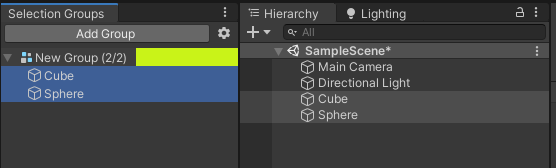
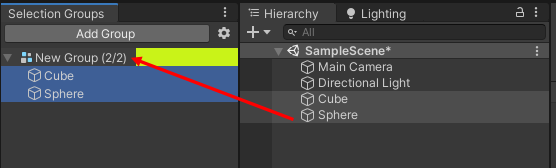
doc: technical editing of English docs (#31)
* copy the overview part of the contents of index.md to readme
* add a link to Getting Started in readme
* technical edits for index.md
* technical edits for GoQL.md
* Annotate SelectionGroupTools.png
* Annotate SelectionGroupMembers.png

Changed region(s): [[0.214, 0.3274, 0.4586, 0.625], [0.4586, 0.625, 0.5504, 0.7143]]

diff --git a/Documentation~/goql.md b/Documentation~/goql.md
@@ -1,101 +1,120 @@
+# GoQL User Documentation
 
-GoQL User Documentation
-=============================
 
-# Introduction 
-GoQL is an abbreviation for "GameObject Query Language". It is used to construct sets of GameObjects from the scene hierarchy. The API takes a single query string as a parameter, and returns a set of GameObjects that match that query.
+## Introduction 
 
-# Creating Queries
-It is possible to construct and test queries by using the Window -> General -> GoQL window. This allows you to type a query, and immediately see the objects that are selected by the query.
+GoQL is an abbreviation for "GameObject Query Language". 
+It is used to construct sets of **GameObjects** from the scene hierarchy.   
+The API takes a single query string as a parameter, 
+and returns a set of **GameObjects** that match that query.
 
-# Structure
-A GoQL query is built using name filters, indexers, discriminators and descenders. This sounds complicated, but uses a syntax which is similar to directory paths and filenames.
+## Structure
 
-## Name Filters
-The name of a GameObject can be specified directly. Eg:
+A GoQL query is built using [name filters](#name-filters), [indexers](#indexers), 
+[discriminators](#discriminators) and [descenders](#descenders). 
+This sounds complicated, but it uses a syntax which is similar to directory paths and filenames.
+
+### Name Filters
+
+The name of a **GameObject** can be specified directly. E.g.:
     
     Head
 
-will match all GameObects that are named "Head". A name filter can also use wildcards at the beginning and end of the namem, Eg:
+will match all **GameObjects** that are named "Head".   
+A name filter can also use wildcards at the beginning and end of the name, E.g.:
 
     *Head
 
-will match all GameObjects that have a name ending with "Head" and
+will match all **GameObjects** that have a name ending with "Head" and
 
     Head*
 
-will match all GammeObjects that have a name beginning with "Head", while
+will match all **GameObjects** that have a name beginning with "Head", while
 
     *Head*
 
-will match all GameObjects that contain the string "Head" anywhere in their name.
+will match all **GameObjects** that contain the string "Head" anywhere in their name.
 
-It is important to note that a Name Filter will match all GameObjects in the current set. Initially, the current set is global, and will contain all objects in the hierarchy. The current set can be changed using a descender.
+It is important to note that a Name Filter will match all GameObjects in the current set.  
+Initially, the current set is global, and will contain all objects in the hierarchy.   
+The current set can be changed using a descender.
 
-## Descenders
+### Descenders
+
 A descender is a slash character.
 
     /
 
-When GoQL reads this symbol, it will narrow the search down into the children of the current set. If it is the first character of the GoQL string, it will match all root objects in the scene. 
+When GoQL reads this symbol, it will narrow the search down into the children of the current set.   
+If it is the first character of the GoQL string, it will match all root objects in the scene. 
 
 A double asterisk is a special descender, which collects all _ancestors_ of the current set.
 
     **
 
-This will collect every child of the current set, and the childs children, recursively until the end of hierarchy is reached.
+This will collect every child of the current set, and the child's children, recursively until the end of hierarchy is reached.
 
 When this symbol is read    
 
     /Head
 
-will match any GameObjects named "Head" that are in the root of the hierarchy. While:
+will match any **GameObjects** named "Head" that are in the root of the hierarchy, while
 
     Head/
 
-would match all immediate children of any GameObjects named "Head".
+would match all immediate children of any **GameObjects** named "Head".
 
-## Indexer
-An indexer will filter the current set using a numerical index which can specifiy individual indexes or a range of indexes. Eg:
+### Indexer
+
+An indexer will filter the current set using a numerical index which can specifiy individual indexes or a range of indexes. E.g.:
 
     Head/[0]
 
-Will match the first child of all GameObjects named "Head".
+will match the first child of all **GameObjects** named "Head".
 
     Head/[0,1,5]
 
-will match a number of children of all GameObjects named "Head", if they exist. Indexes can also be negative, Eg:
+will match a number of children of all **GameObjects** named "Head", if they exist.   
+Indexes can also be negative, Eg:
 
     Head/[-1]
 
-will match the last child of all GameObjects named "Head". An indexer can also be a range, rather than single values. Eg:
+will match the last child of all **GameObjects named** "Head".  
+An indexer can also be a range, rather than single values. E.g.:
 
     Head/[3:5]
 
-will match all children of objects named "Head" that have an index of 3 or 4. (The range in exclusive of the final range value).
+will match all children of objects named "Head" that have an index of 3 or 4.   
+The range is exclusive of the final range value.
 
-#Discriminators
-A discriminator is used to filter the current set by checking for the existing of components, a material or a shader. Discriminators are specified using angle brackets and an initial discrimination code, which can be 't' for components, 'm' for materials and 's' for shaders. Eg:
+# Discriminators
+
+A discriminator is used to filter the current set by checking for the existing of components, 
+a material or a shader.   
+Discriminators are specified using angle brackets and an initial discrimination code, 
+which can be 't' for components, 'm' for materials and 's' for shaders. E.g.:
 
     Head<t:Collider>
 
-will match all objects named "Head" which also have a Collider component. Using a different discriminator code, we can instead match objects that are using a specific material. Eg:
+will match all **GameObjects** named "Head" which also have a Collider component.   
+Using a different discriminator code, we can instead match objects that are using a specific material. 
+E.g.:
 
     Head<m:Glow>
 
-will match all objects that are named "Head" and have a material named "Glow", while:
+will match all **GameObjects** that are named "Head" and have a material named "Glow", while:
 
     Head<s:Standard> 
     
-will match all objects that are named "Head" and are using a shader named "Standard".
+will match all **GameObjects** that are named "Head" and are using a shader named "Standard".
 
-# Examples
+## Examples
 
 Select all root objects:
 
     /
 
-Select all objects who have a name beginning with "Quad":
+Select all **GameObjects** who have a name beginning with "Quad":
 
     Quad*
 
@@ -104,24 +123,25 @@ Select second audio source component in children of all objects who have a name 
     Quad*/<t:AudioSource>[1]
 
 
-Select all gameobjects that have a Transform and a AudioSource component: 
+Select all **GameObjects** that have a Transform and a AudioSource component: 
 
     <t:Transform, t:AudioSource>
 
 
-Select the first 3 children of all objects that are a child of a renderer component and have "Audio" in their name: 
+Select the first 3 children of all **GameObjects** that are a child of a renderer component and have "Audio" in their name: 
 
     <t:Renderer>/*Audio*[0:3]
 
 
-From each object named "Cube", select children that have a name starting with "Quad", then select the last grandchild that has an AudioComponent.
+From each **GameObject** named "Cube", select children that have a name starting with "Quad", 
+then select the last grandchild that has an AudioComponent.
 
     Cube/Quad/<t:AudioSource>[-1]
 
-Select all gamobjects that use the material "Skin":
+Select all **GameObjects** that use the material "Skin":
 
     <m:Skin>
 
-Select all ancestors of the root Environment gameobject that have a MeshRenderer.
+Select all ancestors of the root Environment **GameObject** that have a MeshRenderer.
 
     /Environment/**<t:MeshRenderer>

diff --git a/Documentation~/index.md b/Documentation~/index.md
@@ -1,44 +1,58 @@
-Selection Groups User Documentation
-===================================
-
-# Overview
-
-Selection groups allow a number of Unity Objects to be categorized under a common name.
-The selection group data is initially stored in a scene which allows the data 
-to be used by scripts.
-
-As an alternative, the group data can instead be stored outside of the scene.
-This allows a decoupling between the groups and the scenes, with a tradeoff 
-that the group data cannot be used by scripts.
+# Selection Groups User Documentation
 
 
-# Getting Started
+## Overview
 
-1. Open the selection group window via Window -> General -> Selection Groups.  
-   A new window will open, it makes sense to dock this window next to the Hierarchy window.   
+Selection Groups provides a more convenient workflow in Unity by 
+allowing to group a number of **GameObjects** under a common name.  
+This way, we can do operations on these groups, 
+instead of individual **GameObjects**.
+
+## Getting Started
+
+1. Open the Selection Groups window via Window > General > Selection Groups.  
+   We recommend to dock this window next to the Hierarchy window.   
+
    ![](images/SelectionGroupsWindow.png)
+
 1. Click “Add Group” in the Selection Groups window, and a new item will appear inside the window.   
 1. Drag some **GameObjects** from the hierarchy, or assets from the Project window. 
+   
    ![](images/SelectionGroupMembers.png)
-1. Double click the group name, and a configuration dialog box will appear.   
+
+1. Double click the group name, and a configuration dialog box will appear.
+
    ![](images/SelectionGroupConfiguration.png)
-   1. You may change the group name and color, GoQL query or enable and disable Group Tools.
-   1. The place for storing the data may be configured as well.
-   2. The GoQL: Game Object Query Language field allows you to specify a query 
-      which will automatically select **GameObjects** from the hierarchy that match the query. 
+
+   The dialog box contains the following properties:
+   1. Group name 
+   1. Group color
+   1. [Data Location](#data-location)
+   1. GameObject Query  
+      Specifies a query which will automatically include **GameObjects** from the hierarchy
+      that match the query into the group.  
       For example, `/Enemy*` will select all GameObjects that are in the root of the hierarchy 
-      that have a name starting with `Enemy`. See the [GoQL](goql.md) documentation for more information.
-1. The Group Tools checkboxes enable toolbar items in the main Selection Groups window for each group. 
-   These tools allow you to show and hide an entire group with a single click, 
-   or enable and disable editing of an entire group with a single click.   
-   ![](images/SelectionGroupTools.png)
+      that have names starting with `Enemy`.  
+      See the [GoQL](goql.md) documentation for more information.     
+   1. Enabled Toolbar Buttons  
+      Enables/disables the following toolbar items in the main Selection Groups window for the group.   
+      1. Eye: show or hide all the **GameObjects** in the group. 
+      1. Lock: enable or disable the editing of all the **GameObjects** in the group.  
 
+      ![](images/SelectionGroupTools.png)
 
-# How does storing the data outside a scene work ?
+## Data Location
 
-Unity has an API (GlobalObjectId) for creating a global identifier for objects in scenes. 
-The Selection Group stores references to objects using this API, 
-which is saved in an asset external to the project. 
-This allows the same group to exist across the project, 
-containing game assets and **GameObjects** from multiple scenes. 
-When a scene is loaded, the Selection Group window will only list **GameObjects** that currently exist in that scene.
+The data of each group can be stored in one of these two locations:
+1. Scene: in a scene (default).  
+   This allows scripts to access the data.
+2. Editor: in an asset file outside scenes.  
+   This allows a decoupling between the groups and the scenes, with a tradeoff 
+   that the group data cannot be used by scripts.  
+   The same group can be shared by multiple scenes, 
+   but the Selection Group window will only show grouped **GameObjects** that exist in the opened scene.
+
+> When the group data is stored in the Editor, the group saves references to **GameObjects** using 
+> [GlobalObjectId API](https://docs.unity3d.com/ScriptReference/GlobalObjectId.html),
+> which provides project-global object identifiers, into an asset file.
+

diff --git a/README.md b/README.md
@@ -1,4 +1,4 @@
-# SelectionGroups
+# Selection Groups
 
 [![](https://badge-proxy.cds.internal.unity3d.com/fb136fc0-1940-40a8-9057-83638eb23bcd)](https://badges.cds.internal.unity3d.com/packages/com.unity.selection-groups/build-info?branch=dev&testWorkflow=package-isolation)
 [![](https://badge-proxy.cds.internal.unity3d.com/0ff3d77d-0f47-4e16-857c-ed03a771eac9)](https://badges.cds.internal.unity3d.com/packages/com.unity.selection-groups/dependencies-info?branch=dev&testWorkflow=updated-dependencies)
@@ -8,16 +8,21 @@
 ![ReleaseBadge](https://badge-proxy.cds.internal.unity3d.com/239fe9e2-44d2-4379-81a6-d94bdcc74ffe)
 ![ReleaseBadge](https://badge-proxy.cds.internal.unity3d.com/d907b255-39d5-4c3b-9b05-a319082806dd)
 
-SelectionGroups allow sets of objects to be grouped together, independent of the structure in the Hierarchy Window.
+## Overview
 
-Open the SelectionGroup window via Window->General->Selection Groups.
+Selection Groups provides a more convenient workflow in Unity by 
+allowing to group a number of **GameObjects** under a common name.  
+This way, we can do operations on these groups, 
+instead of individual **GameObjects**.
 
-Press the 'Add Group' button to add a group, then drag gameobjects from the Hierarchy Window to the group.
+## Supported Unity Versions 
 
-You can remove members from the group by right clicking on them and choosing remove.
+Unity 2019.4 or higher.
 
-You can right click on the group to open a context menu. This menu provides controls for removing, duplicating and configuring the group.
+## Getting Started
 
-# Group Configuration
-When selecting the Configure Group option from the context menu, a configuration window will open. You can change the group name, the group color and the selection query using this window.
+[Getting Started](Documentation~/index.md#getting-started)
 
+
+## License
+- [License](LICENSE.md)
